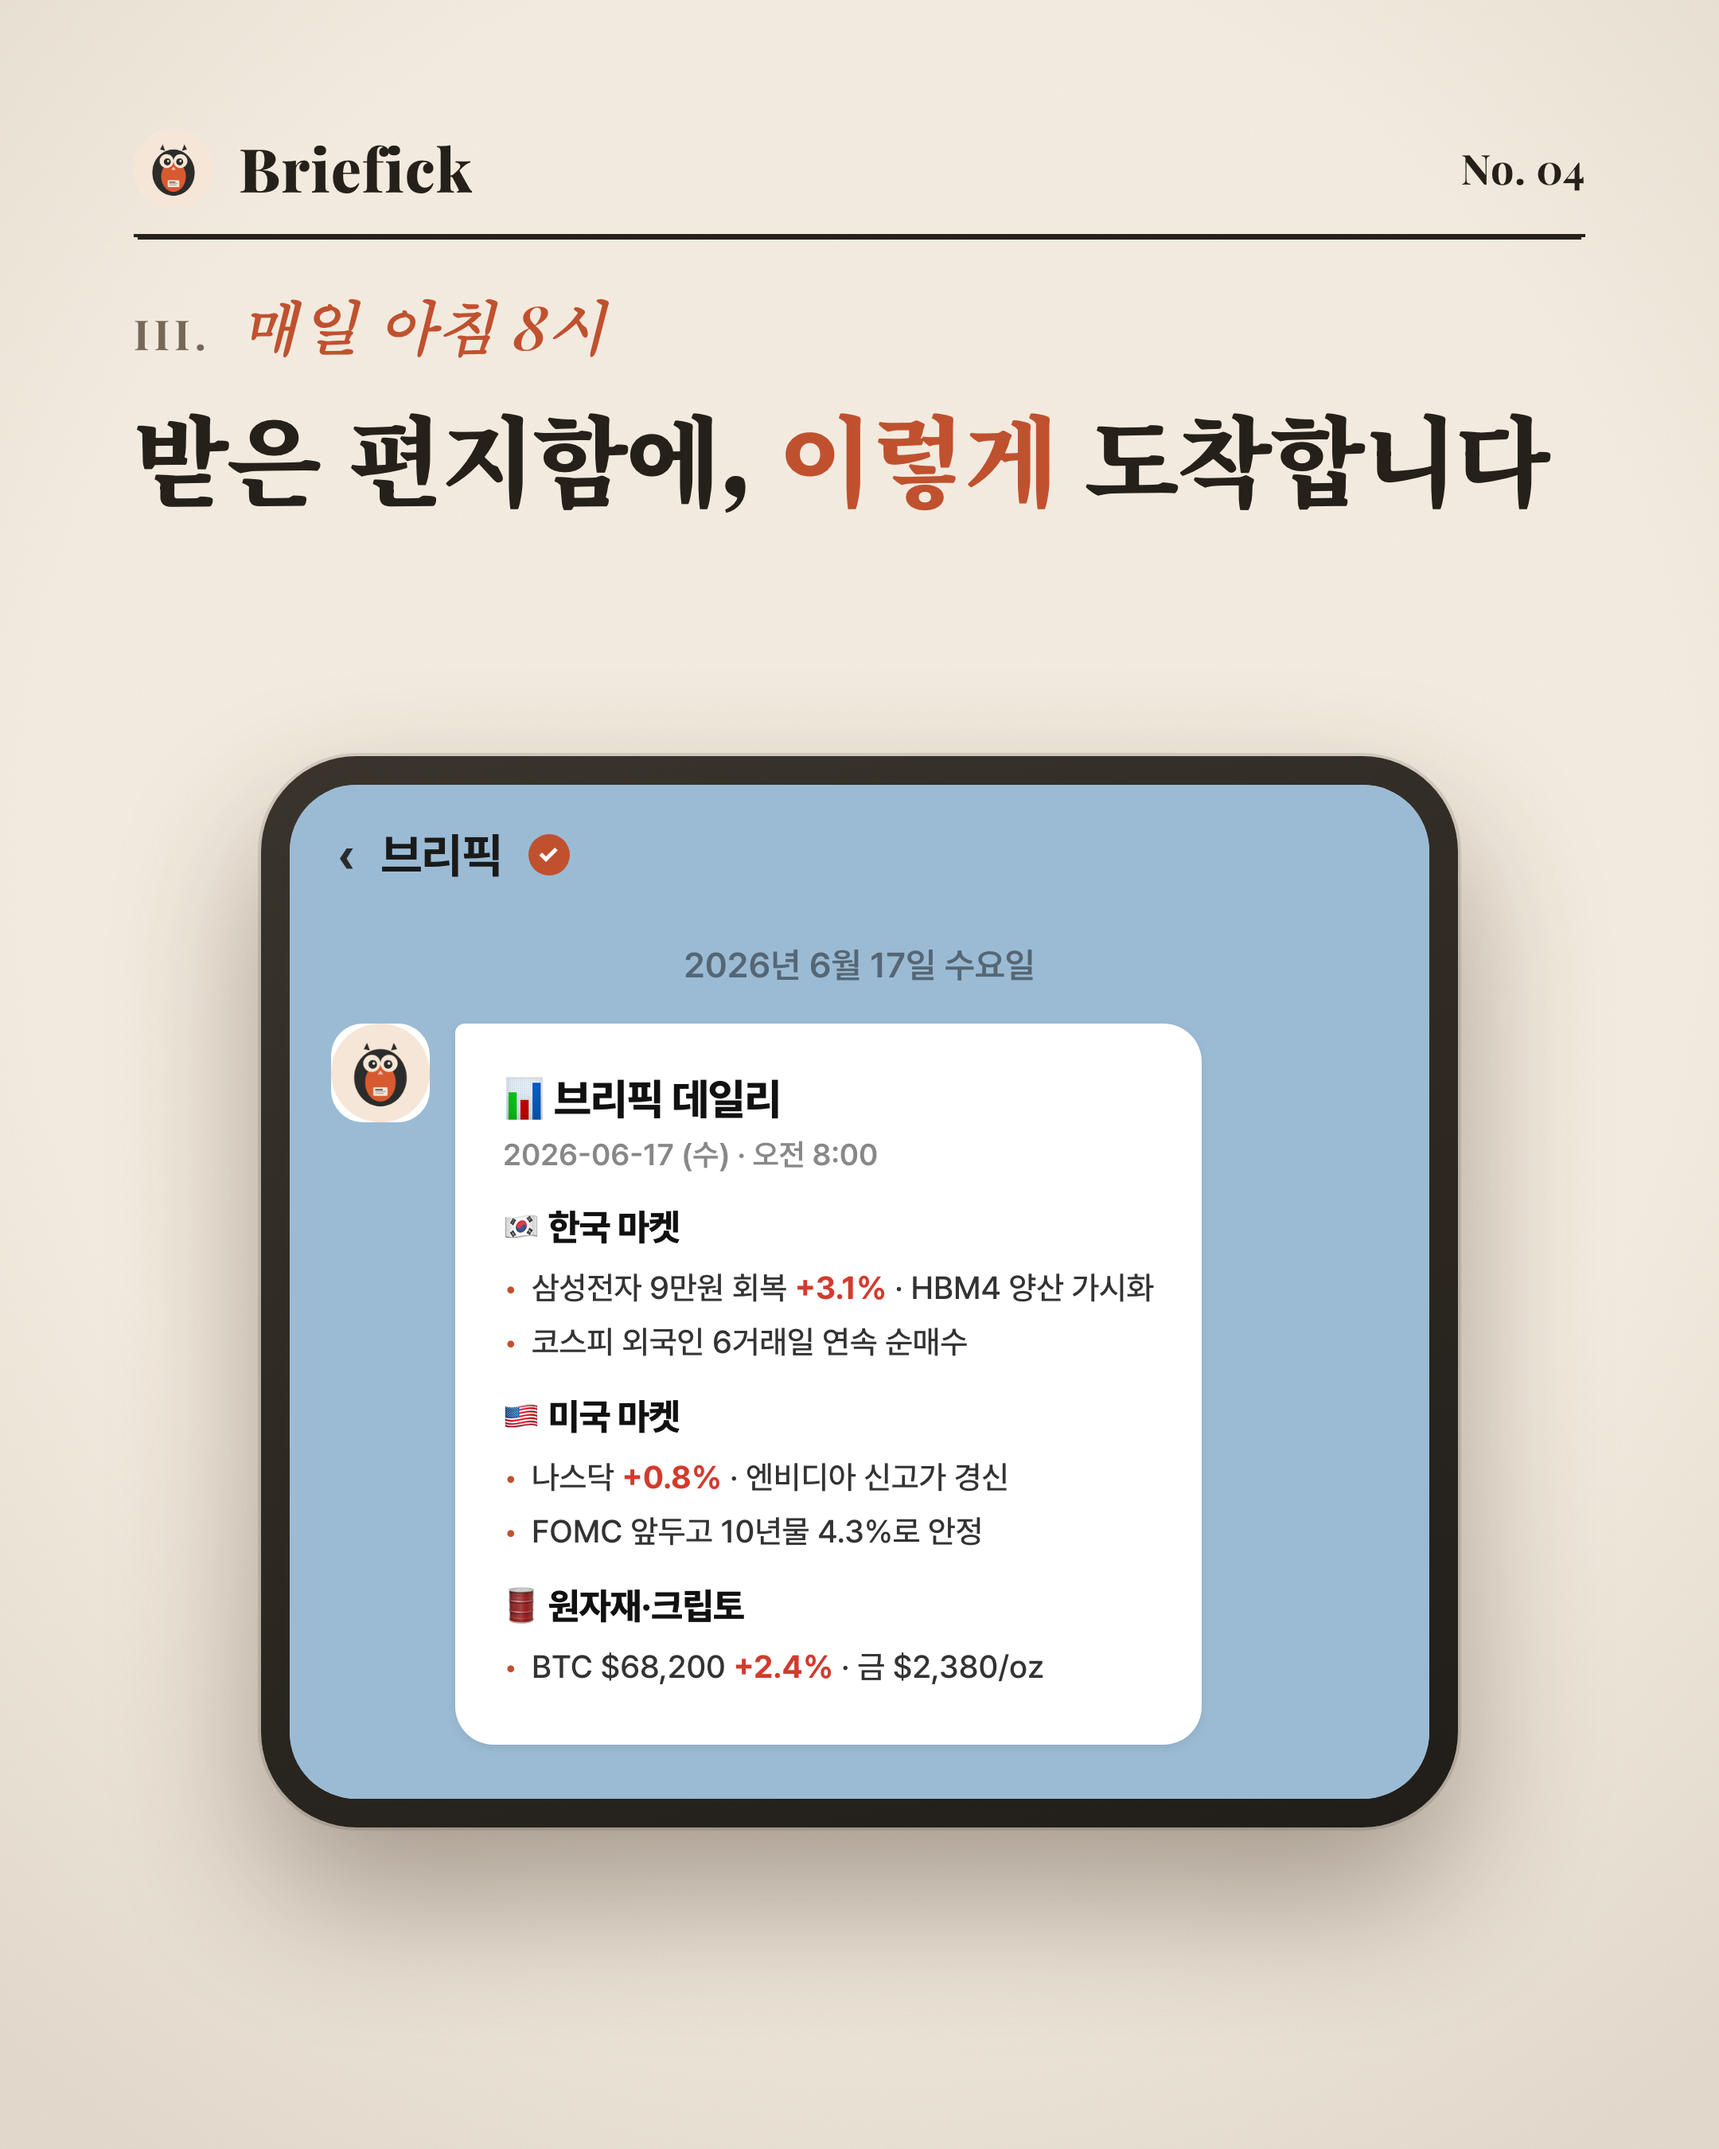
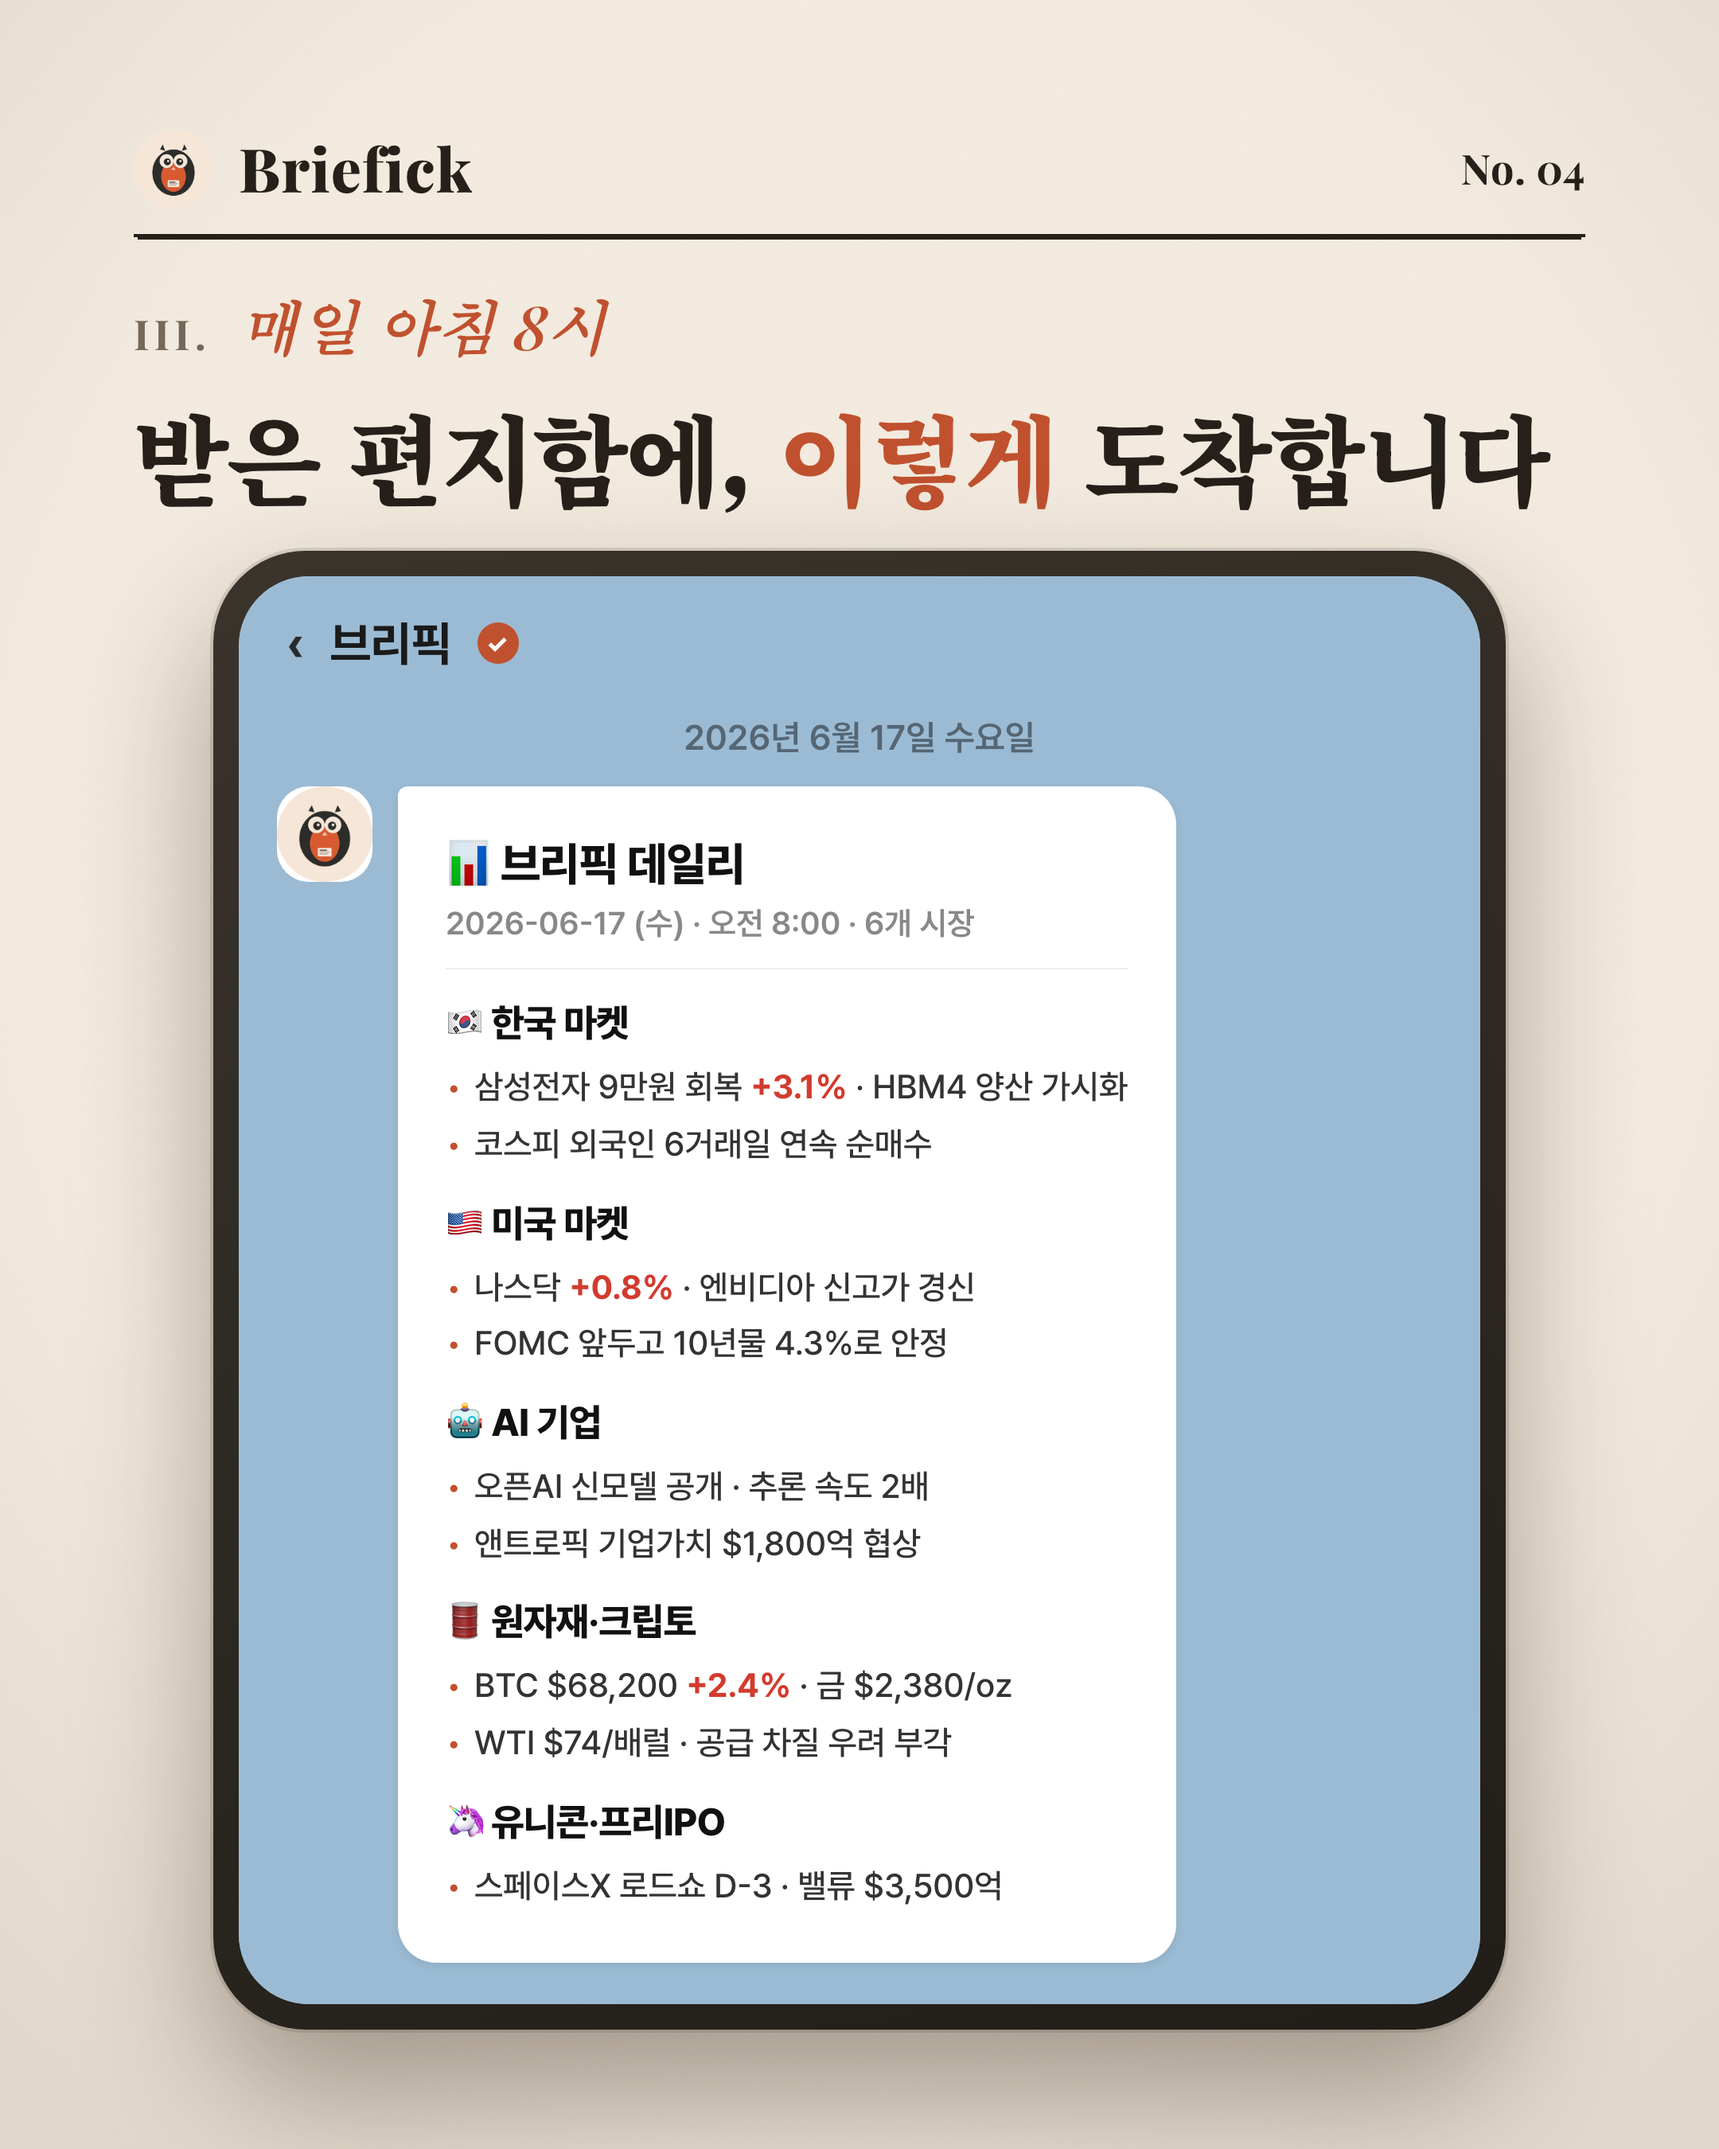
프로모 4페이지 카톡창 확대 - 폰 세로 꽉 채우고 6개 시장 섹션 전부 노출

diff --git a/scripts/promo/template.html b/scripts/promo/template.html
@@ -147,28 +147,29 @@
     font-family: 'Noto Serif KR', serif; font-weight: 900;
     font-size: 62px; letter-spacing: -1.6px; color: var(--ink); margin-top: 18px; line-height: 1.2;
   }
-  .phonewrap { flex: 1; display: flex; align-items: center; justify-content: center; padding-top: 24px; }
+  .phonewrap { flex: 1; display: flex; align-items: stretch; justify-content: center; padding-top: 22px; }
   .phone {
-    width: 752px; border-radius: 60px; padding: 18px;
+    width: 812px; border-radius: 58px; padding: 16px;
     background: linear-gradient(160deg, #3a342c, #211d18);
-    box-shadow: 0 44px 90px rgba(54,40,24,0.4), 0 0 0 2px rgba(37,32,26,0.12);
+    box-shadow: 0 40px 84px rgba(54,40,24,0.4), 0 0 0 2px rgba(37,32,26,0.12);
+    display: flex; flex-direction: column;
   }
-  .phone-screen { background: #9bbbd4; border-radius: 42px; overflow: hidden; font-family: 'Pretendard', sans-serif; }
-  .kk-top { background: #9bbbd4; padding: 26px 30px 18px; display: flex; align-items: center; gap: 16px; }
+  .phone-screen { background: #9bbbd4; border-radius: 44px; overflow: hidden; font-family: 'Pretendard', sans-serif; flex: 1; display: flex; flex-direction: column; }
+  .kk-top { background: #9bbbd4; padding: 24px 30px 14px; display: flex; align-items: center; gap: 16px; }
   .kk-top .back { color: #2b2b2b; font-size: 30px; font-weight: 700; }
   .kk-top .name { color: #1a1a1a; font-size: 30px; font-weight: 700; letter-spacing: -0.5px; }
   .kk-top .badge { width: 26px; height: 26px; background: var(--terra); border-radius: 50%; display: inline-flex; align-items:center; justify-content:center; color:#fff; font-size:16px; font-weight:800; }
-  .kk-body { background: #9bbbd4; padding: 10px 26px 34px; }
-  .kk-date { text-align: center; font-size: 22px; color: rgba(0,0,0,0.45); font-weight: 600; margin: 10px 0 24px; }
+  .kk-body { background: #9bbbd4; padding: 6px 24px 26px; flex: 1; }
+  .kk-date { text-align: center; font-size: 22px; color: rgba(0,0,0,0.45); font-weight: 600; margin: 8px 0 18px; }
   .kk-msgrow { display: flex; align-items: flex-start; gap: 16px; }
-  .kk-ava { width: 62px; height: 62px; border-radius: 20px; flex-shrink: 0; }
-  .kk-bubble { background: #fff; border-radius: 6px 24px 24px 24px; padding: 30px; max-width: 540px; box-shadow: 0 2px 6px rgba(0,0,0,0.08); }
-  .kk-h { font-size: 27px; font-weight: 800; color: #111; letter-spacing: -0.5px; display:flex; align-items:center; gap:10px; }
-  .kk-sub { font-size: 19px; color: #888; font-weight: 600; margin: 6px 0 18px; }
-  .kk-sec { margin-top: 16px; }
-  .kk-sec .lbl { font-size: 23px; font-weight: 800; color: #111; letter-spacing: -0.4px; }
-  .kk-sec ul { list-style: none; margin: 8px 0 0; }
-  .kk-sec li { font-size: 20px; color: #333; line-height: 1.5; font-weight: 500; padding-left: 18px; position: relative; margin-bottom: 4px; }
+  .kk-ava { width: 60px; height: 60px; border-radius: 20px; flex-shrink: 0; }
+  .kk-bubble { background: #fff; border-radius: 6px 24px 24px 24px; padding: 30px 30px 28px; max-width: 624px; box-shadow: 0 2px 6px rgba(0,0,0,0.08); }
+  .kk-h { font-size: 29px; font-weight: 800; color: #111; letter-spacing: -0.5px; display:flex; align-items:center; gap:10px; }
+  .kk-sub { font-size: 20px; color: #888; font-weight: 600; margin: 6px 0 16px; padding-bottom: 16px; border-bottom: 1px solid #eee; }
+  .kk-sec { margin-top: 18px; }
+  .kk-sec .lbl { font-size: 24px; font-weight: 800; color: #111; letter-spacing: -0.4px; }
+  .kk-sec ul { list-style: none; margin: 9px 0 0; }
+  .kk-sec li { font-size: 21px; color: #333; line-height: 1.46; font-weight: 500; padding-left: 18px; position: relative; margin-bottom: 5px; }
   .kk-sec li::before { content: "•"; position: absolute; left: 0; color: var(--terra); }
   .kk-sec li .up { color: var(--kk-up); font-weight: 700; }
   .kk-sec li .dn { color: var(--kk-dn); font-weight: 700; }
@@ -294,7 +295,7 @@
             <img class="kk-ava" data-owl src="" alt="">
             <div class="kk-bubble">
               <div class="kk-h">📊 브리픽 데일리</div>
-              <div class="kk-sub">2026-06-17 (수) · 오전 8:00</div>
+              <div class="kk-sub">2026-06-17 (수) · 오전 8:00 · 6개 시장</div>
               <div class="kk-sec">
                 <div class="lbl">🇰🇷 한국 마켓</div>
                 <ul>
@@ -310,9 +311,23 @@
                 </ul>
               </div>
               <div class="kk-sec">
+                <div class="lbl">🤖 AI 기업</div>
+                <ul>
+                  <li>오픈AI 신모델 공개 · 추론 속도 2배</li>
+                  <li>앤트로픽 기업가치 $1,800억 협상</li>
+                </ul>
+              </div>
+              <div class="kk-sec">
                 <div class="lbl">🛢 원자재·크립토</div>
                 <ul>
                   <li>BTC $68,200 <span class="up">+2.4%</span> · 금 $2,380/oz</li>
+                  <li>WTI $74/배럴 · 공급 차질 우려 부각</li>
+                </ul>
+              </div>
+              <div class="kk-sec">
+                <div class="lbl">🦄 유니콘·프리IPO</div>
+                <ul>
+                  <li>스페이스X 로드쇼 D-3 · 밸류 $3,500억</li>
                 </ul>
               </div>
             </div>
